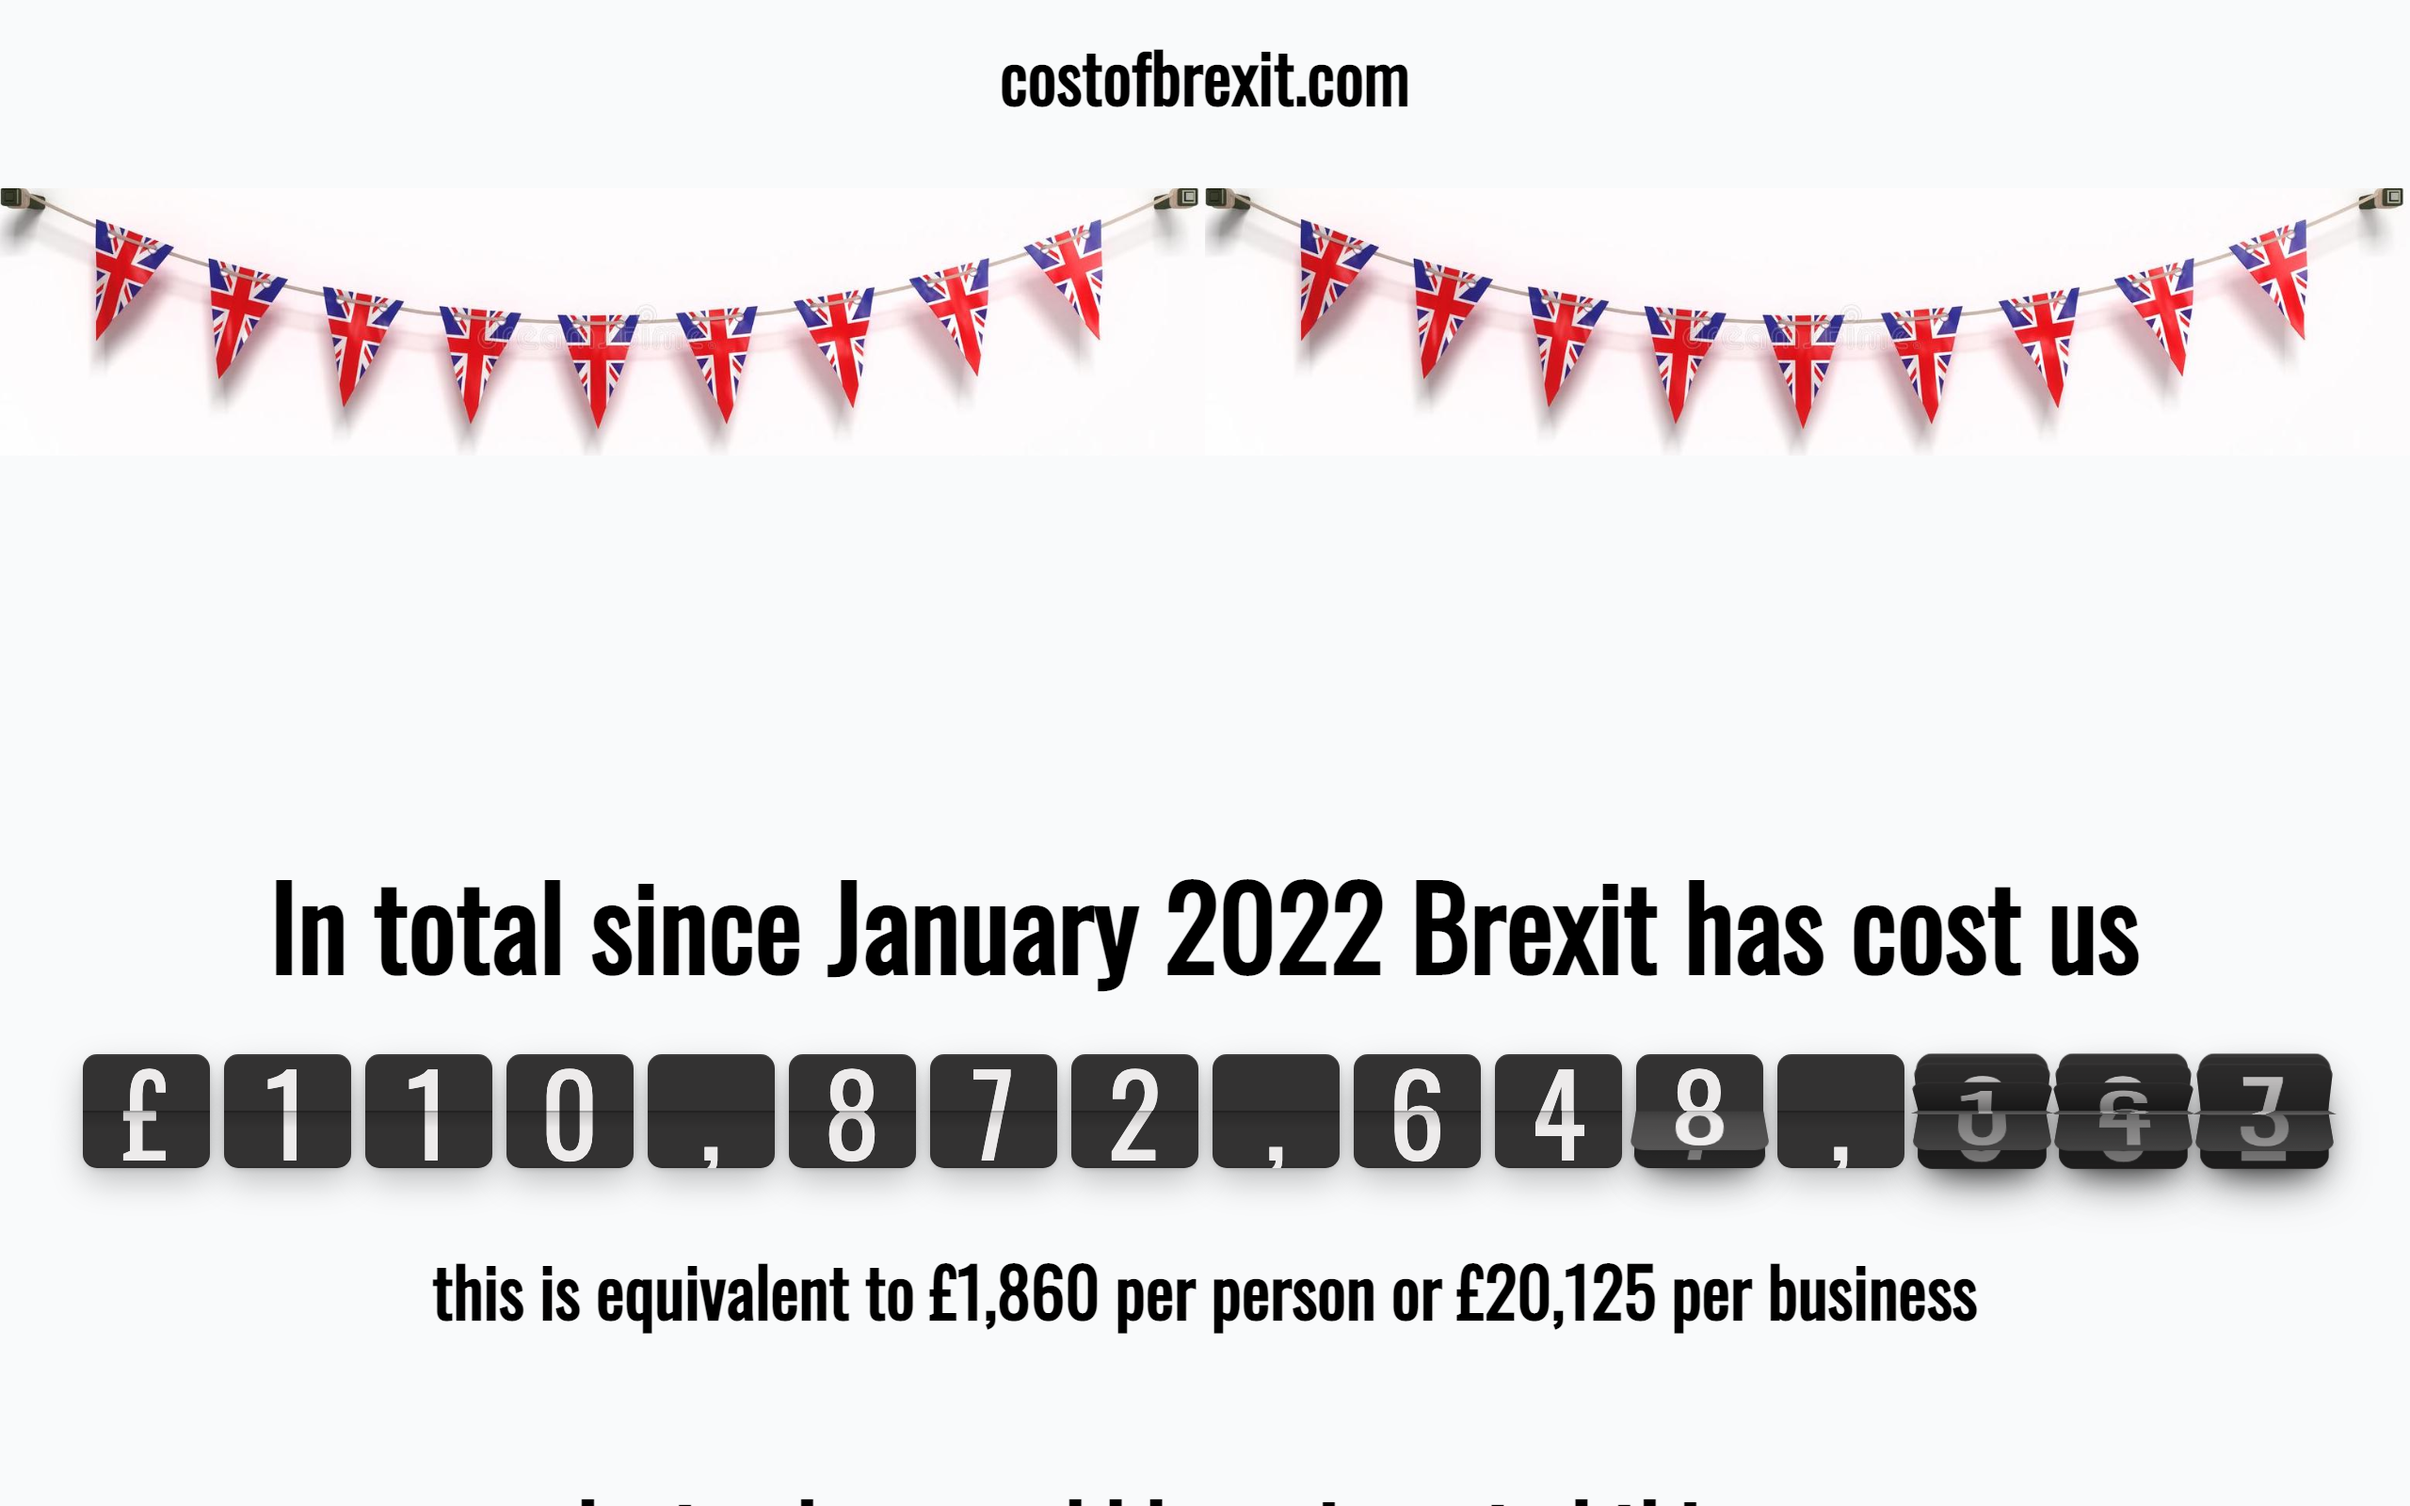
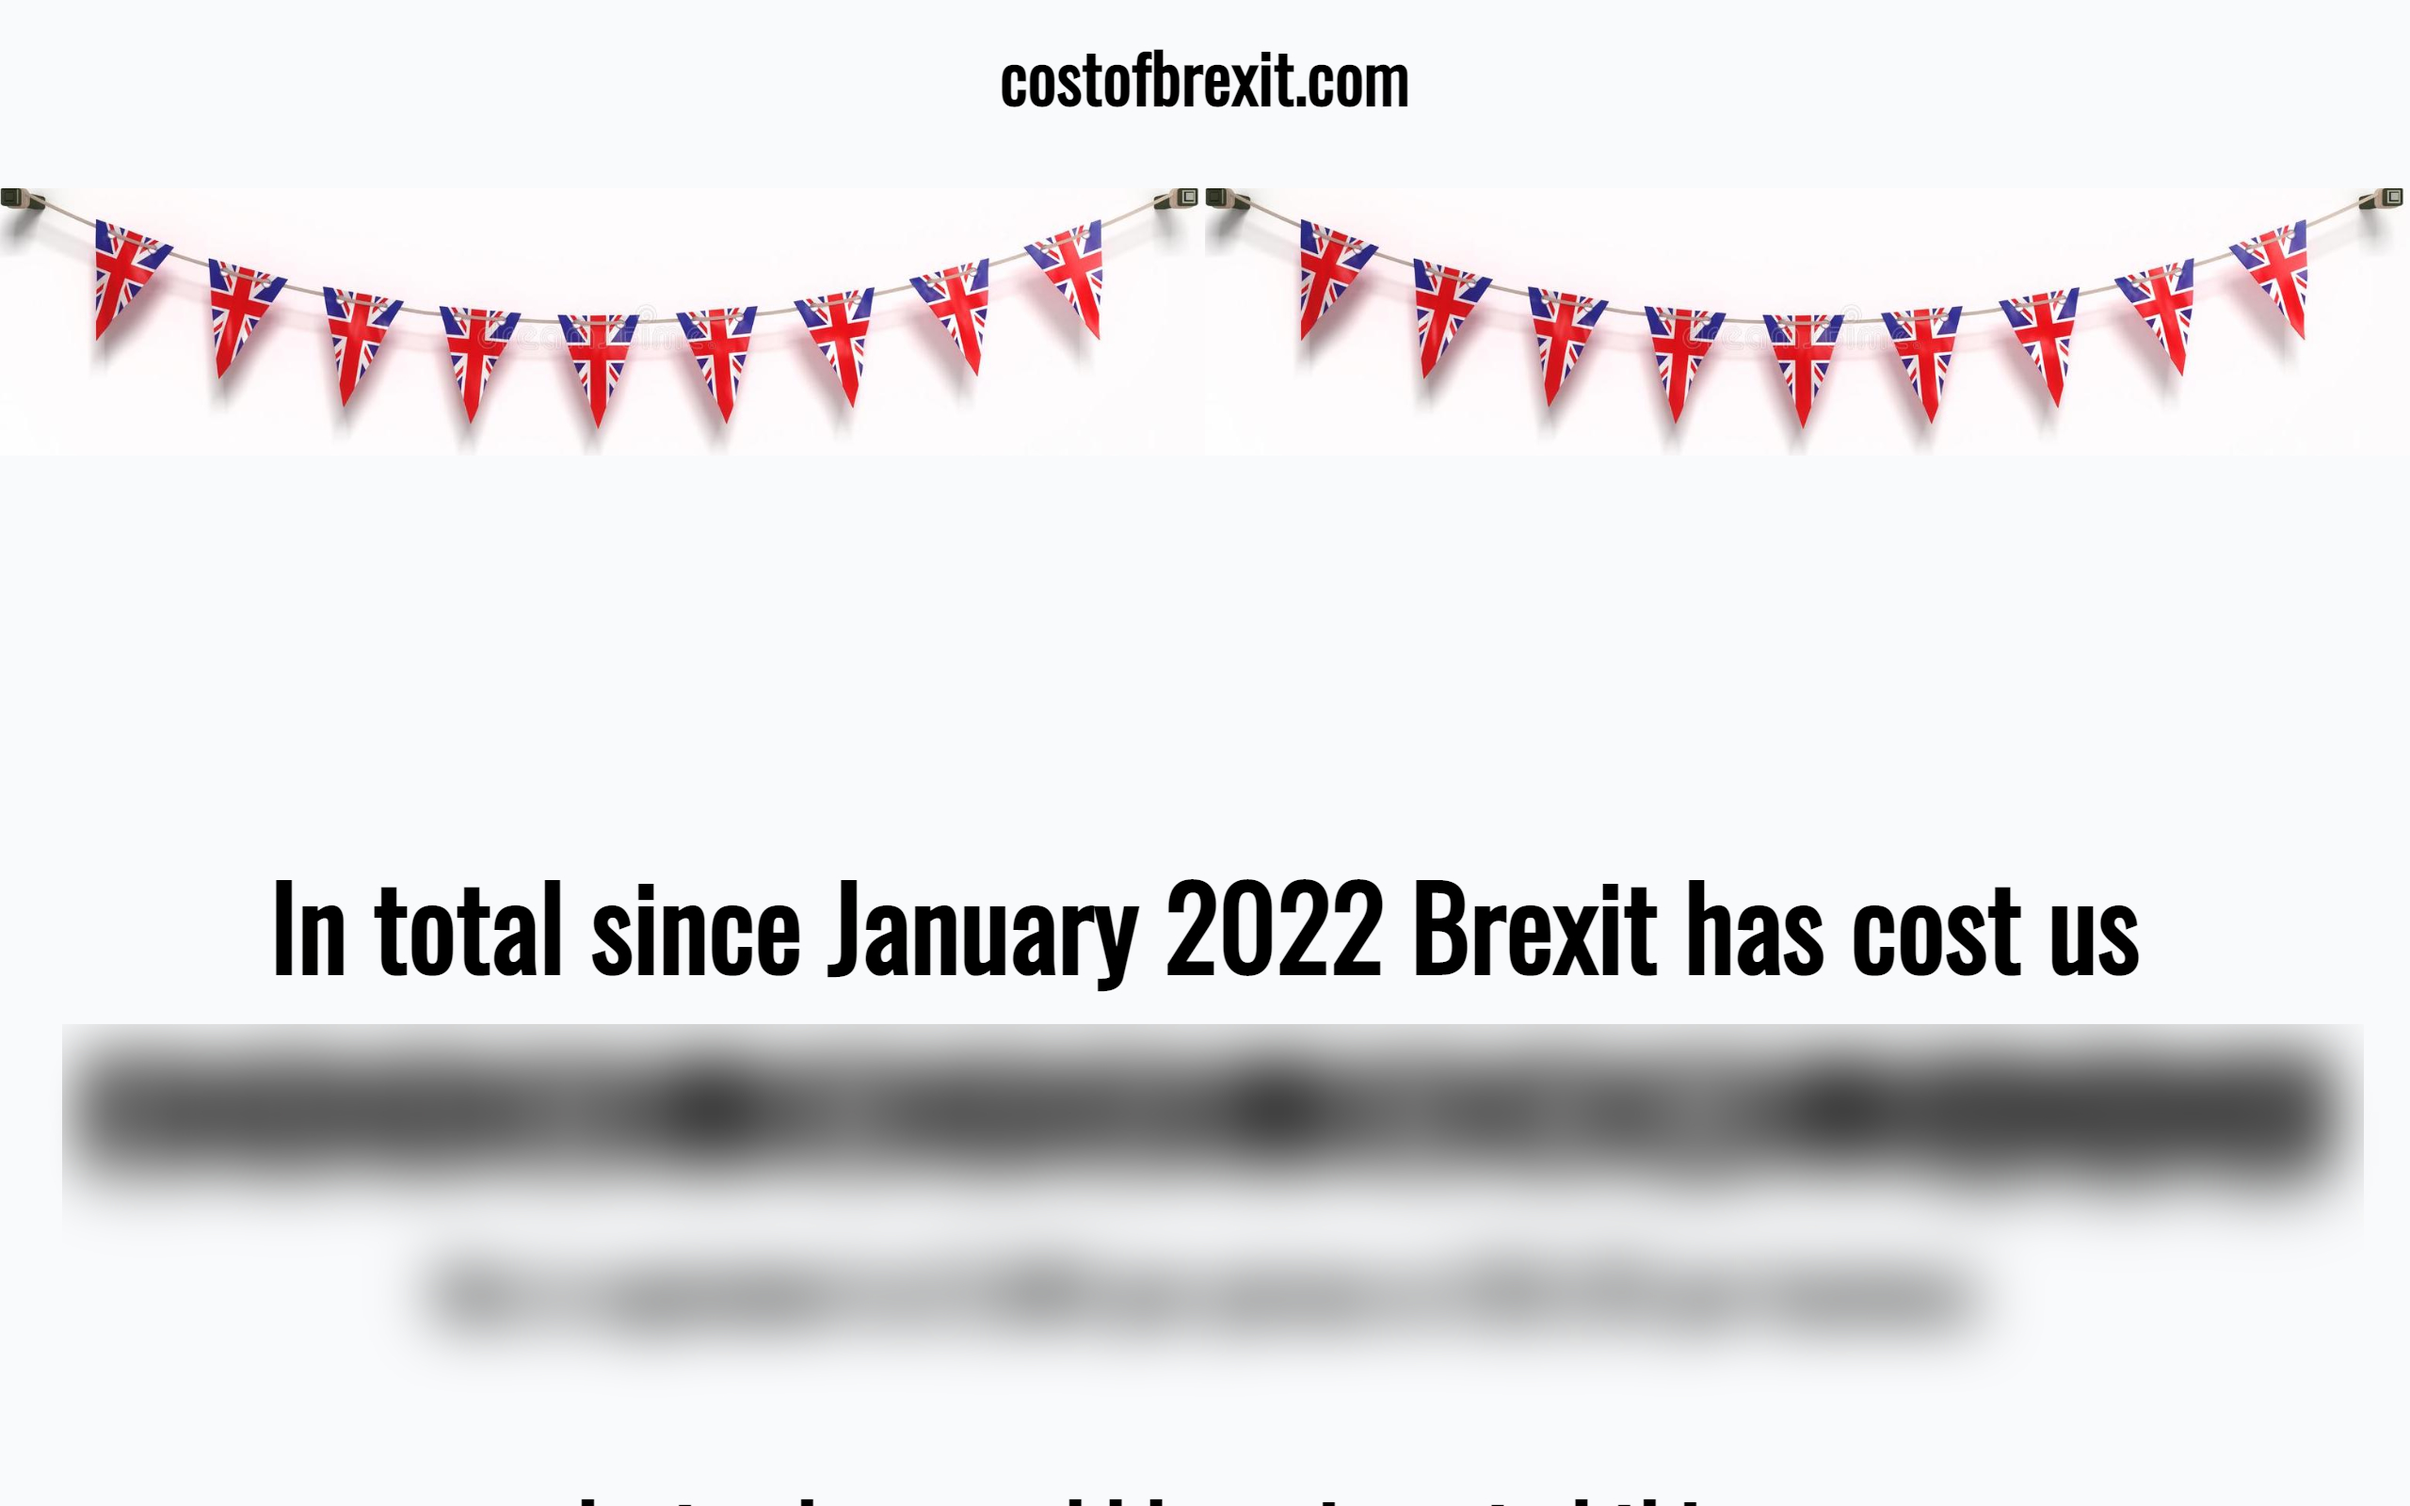
Move to static

Changed region(s): [[0.0, 0.6562, 1.0, 0.9062]]

diff --git a/index.html b/index.html
@@ -5,12 +5,10 @@
     <meta http-equiv="X-UA-Compatible" content="IE=edge">
     <meta name="viewport" content="width=device-width, initial-scale=1.0">
     
-    
-    <!-- Do not change here, These are updated by stats.js-->
-    <title>Brexit has cost £110,877,011,310 in total since Janurary 2022</title>
+    <title>What is the cost of brexit ?</title>
     <meta property="og:image" content="https://costofbrexit.com/preview.jpg">
-    <meta property="og:title" content="Brexit has cost £110,877,011,310 in total since Janurary 2022">
-    <meta property="og:description" content="In total since January 2022 Brexit has cost us £110,877,011,672, see what it could have been invested on.">
+    <meta property="og:title" content="What is the cost of brexit ?">
+    <meta property="og:description" content="And what could have this money been invested towards ?">
     <meta property="og:url" content="https://costofbrexit.com">
     <meta name="twitter:card" content="https://costofbrexit.com/preview.jpg">
 

diff --git a/stats.js b/stats.js
@@ -17,15 +17,5 @@ function costOfBrexit() {
 
 function title() {
     const formattedCost = currencyFormatter.format(costOfBrexit())
-    return "Brexit has cost " + formattedCost + " in total since Janurary 2022";
-}
-
-function description() {
-    const formattedCost = currencyFormatter.format(costOfBrexit())
-    return "In total since January 2022 Brexit has cost us " + formattedCost + ", see what it could have been invested on.";
-}
-
-if (globalThis.module) {
-    module.exports.title = title
-    module.exports.description = description
+    return formattedCost + " is the total cost of brexit since Janurary 2022";
 }
